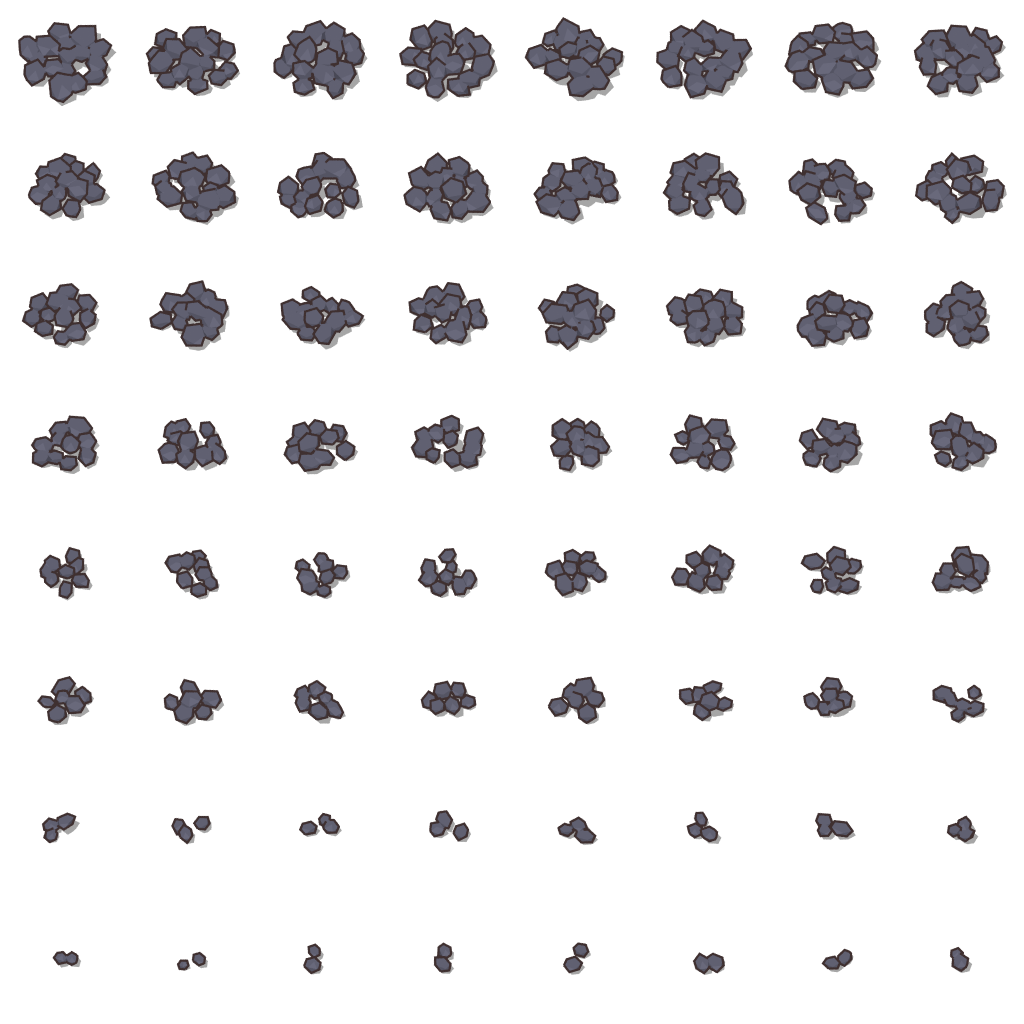
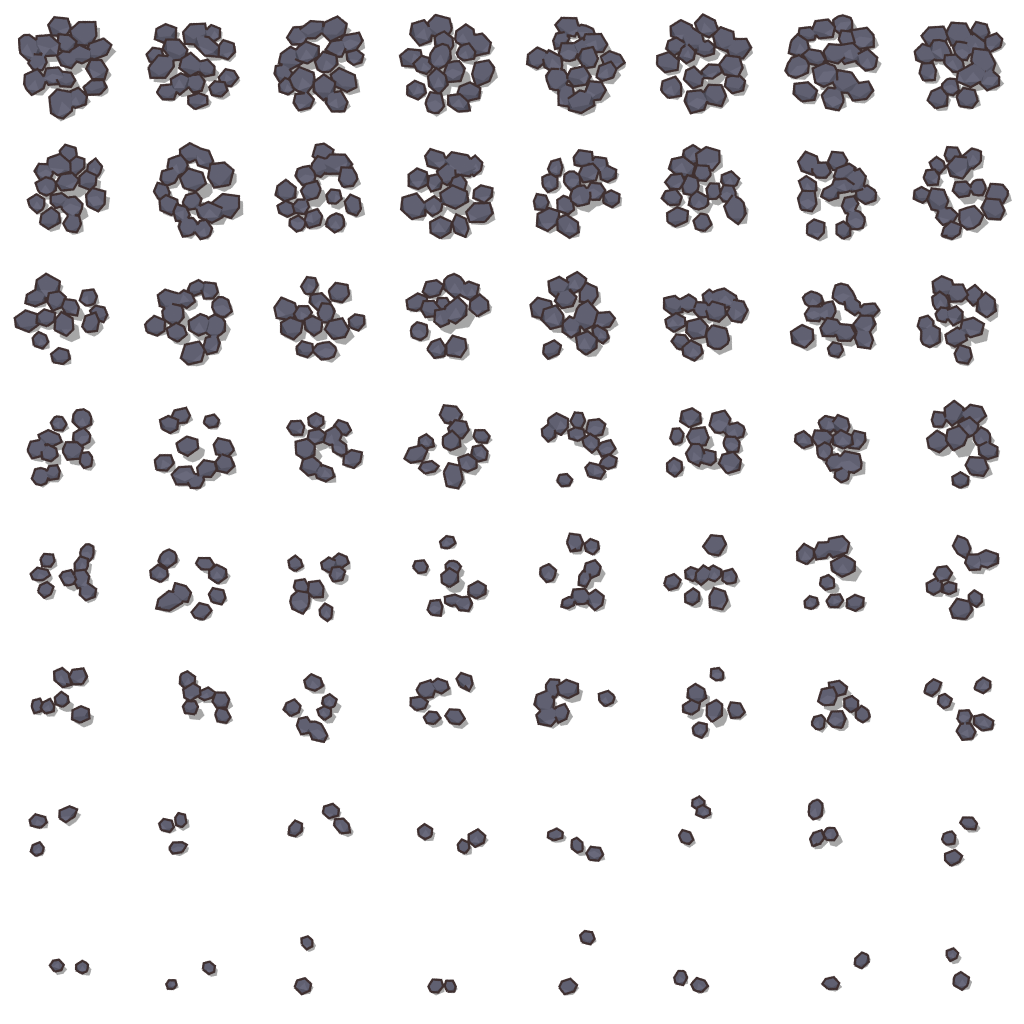
Étape 1 : vues rapprochées et animations au banc d'essai, gisements de minerai continus
- banc : scènes detail-* (bras, souterrains, répartiteurs, assembleurs, minerais, sols) à la résolution du
  jeu, captures animées comparées en GIF ; contrôle de syntaxe Lua 5.2 (lupa) avant lancement, arrêt sur
  erreur du jeu ; lancement sans dialogue Steam (steam_appid.txt)
- minerais : tas plus larges et étirés en profondeur, plus de bandes horizontales dans les gisements

diff --git a/tools/bench.py b/tools/bench.py
@@ -14,6 +14,7 @@ Résultats dans .cache/vitrine/ :
 Le journal du scénario (entités impossibles à créer...) est dans <variante>/journal.txt.
 """
 import json
+import re
 import shutil
 import sys
 import time
@@ -35,18 +36,32 @@ def install_bench():
     return info["name"]
 
 
+def check_lua():
+    """Compile les scripts Lua du banc avec Lua 5.2 (celui de Factorio : pas de `//`, pas de `goto` en 5.1...)."""
+    import lupa.lua52
+    compile_ = lupa.lua52.LuaRuntime().eval("function(src, name) local f, err = load(src, name) return err end")
+    errors = [compile_(p.read_text(encoding="utf-8"), p.name) for p in sorted(BENCH.rglob("*.lua"))]
+    errors = [e for e in errors if e]
+    if errors:
+        raise SystemExit("Erreur de syntaxe Lua :\n" + "\n".join(errors))
+
+
 def capture(variant, mods, timeout):
     """Lance la vitrine avec ces mods ; copie les captures dans OUT/<variant>/."""
     produced = factorio.WORK / "write" / "script-output" / "vitrine" / variant
     shutil.rmtree(produced, ignore_errors=True)
     bench = install_bench()
     factorio.stop()
+    (factorio.WORK / "write" / "factorio-current.log").unlink(missing_ok=True)   # sinon on relirait l'ancien
     print(f"[{variant}] lancement de Factorio...", flush=True)
     factorio.start("--load-scenario", f"{bench}/vitrine", "--disable-audio", "--window-size", "1280x720",
                           mods=[bench, *mods])
     start = time.time()
     try:
         while not (produced / "fini.txt").exists():
+            errors = factorio.log_errors() if time.time() - start > 10 else []
+            if errors:
+                raise RuntimeError("Erreur dans le jeu :\n" + "\n".join(errors))
             if time.time() - start > 30 and not factorio.running():
                 raise RuntimeError("Factorio s'est arrêté avant la fin. Journal :\n" + "\n".join(factorio.log_errors()))
             if time.time() - start > timeout:
@@ -58,35 +73,50 @@ def capture(variant, mods, timeout):
     shutil.rmtree(target, ignore_errors=True)
     shutil.copytree(produced, target)
     shots = sorted(target.glob("*.png"))
-    print(f"[{variant}] {len(shots)} captures en {time.time() - start:.0f} s -> {target.relative_to(ROOT)}")
+    print(f"[{variant}] {len(shots)} images en {time.time() - start:.0f} s -> {target.relative_to(ROOT)}")
     journal = (target / "journal.txt").read_text(encoding="utf-8").strip()
     if journal:
         print(f"[{variant}] journal du scénario : {len(journal.splitlines())} lignes (voir journal.txt)")
     return shots
 
 
+def pair(a, b):
+    """Origine et mod côte à côte (portrait ou carré) ou l'un sous l'autre (paysage), séparés par 8 px."""
+    from PIL import Image
+    side = a.width <= a.height * 1.2
+    size = (a.width + b.width + 8, max(a.height, b.height)) if side else (max(a.width, b.width), a.height + b.height + 8)
+    canvas = Image.new("RGB", size, (20, 20, 20))
+    canvas.paste(a.convert("RGB"), (0, 0))
+    canvas.paste(b.convert("RGB"), (a.width + 8, 0) if side else (0, a.height + 8))
+    return canvas
+
+
 def compare(variant):
+    """Une image par capture fixe, un GIF par capture animée (<nom>-f00.png, -f01.png...)."""
     from PIL import Image
     out = OUT / "comparaison"
     shutil.rmtree(out, ignore_errors=True)
     out.mkdir(parents=True)
+    animations = {}
     for shot in sorted((OUT / variant).glob("*.png")):
         orig = OUT / "origine" / shot.name
         if not orig.exists():
             continue
-        a, b = Image.open(orig), Image.open(shot)
-        side = a.width <= a.height * 1.2                    # portrait ou carré : côte à côte ; sinon empilé
-        size = (a.width + b.width + 8, max(a.height, b.height)) if side else (max(a.width, b.width), a.height + b.height + 8)
-        canvas = Image.new("RGB", size, (20, 20, 20))
-        canvas.paste(a, (0, 0))
-        canvas.paste(b, (a.width + 8, 0) if side else (0, a.height + 8))
-        canvas.save(out / shot.name)
-    print(f"Comparaisons dans {out.relative_to(ROOT)}")
+        m = re.fullmatch(r"(.+)-f(\d+)\.png", shot.name)
+        if m:
+            animations.setdefault(m.group(1), []).append((orig, shot))
+        else:
+            pair(Image.open(orig), Image.open(shot)).save(out / shot.name)
+    for name, frames in animations.items():
+        images = [pair(Image.open(a), Image.open(b)) for a, b in frames]
+        images[0].save(out / f"{name}.gif", save_all=True, append_images=images[1:], duration=100, loop=0)
+    print(f"Comparaisons dans {out.relative_to(ROOT)} ({len(animations)} animations)")
 
 
 def main(argv):
     mod = next((a for a in argv if not a.startswith("-") and (ROOT / a / "mod").is_dir()), "cartoon")
     timeout = int(argv[argv.index("--delai") + 1]) if "--delai" in argv else 600
+    check_lua()
     if "--sans-origine" not in argv or not (OUT / "origine").exists():
         capture("origine", [], timeout)
     name = factorio.install(mod)

diff --git a/cartoon/blender/ore.py b/cartoon/blender/ore.py
@@ -34,6 +34,12 @@ ORES = {                                   # nom : (couleur, couleur du dessus p
 }
 
 # par étape : nombre de blocs, rayon min et max d'un bloc (en cases)
+# gisements : tas larges à toutes les étapes, comme l'original (environ 1,6 x 1,5 case : les tas voisins, posés à une
+# case d'écart, se chevauchent et le gisement paraît continu) ; seul le nombre de blocs diminue avec la richesse
+FIELD_SPREAD = (0.45, 0.011)     # rayon de dispersion des blocs : a + b * nombre de blocs (en cases)
+FIELD_ASPECT = 1.2               # étirement en profondeur : compense le raccourcissement de la vue à 30°
+FIELD_DY = -0.06                 # décalage vers le bas de l'écran (l'original est centré un peu plus bas)
+
 STAGES = [(16, 0.15, 0.23), (14, 0.14, 0.21), (12, 0.14, 0.2), (10, 0.13, 0.19), (8, 0.12, 0.18),
           (6, 0.12, 0.17), (3, 0.11, 0.15), (2, 0.1, 0.14)]
 
@@ -61,7 +67,8 @@ def chunk(x, y, r, m, rng, lift=0.0):
     return o
 
 
-def build_pile(name, count, lo, hi, seed, spread=None):
+def build_pile(name, count, lo, hi, seed, spread=None, aspect=0.85, dy=0.0):
+    """Tas de `count` blocs dispersés dans un disque de rayon `spread`, étiré de `aspect` en profondeur."""
     reset()
     m = mat("ore", P[ORES[name]])
     rng = Rng(seed)
@@ -71,18 +78,20 @@ def build_pile(name, count, lo, hi, seed, spread=None):
     while len(spots) < count and tries < 600:
         tries += 1
         a, d = rng.u(0, math.tau), spread * math.sqrt(rng.u())
-        x, y, r = d * math.cos(a), d * math.sin(a) * 0.85, rng.u(lo, hi)
-        if all(math.hypot(x - sx, (y - sy) * 1.15) > (r + sr) * 0.62 for sx, sy, sr in spots):
+        x, y, r = d * math.cos(a), d * math.sin(a) * aspect, rng.u(lo, hi)
+        if all(math.hypot(x - sx, (y - sy) * 1.15 * 0.85 / aspect) > (r + sr) * 0.62 for sx, sy, sr in spots):
             spots.append((x, y, r))
     for x, y, r in sorted(spots, key=lambda s: -s[1]):          # de l'arrière vers l'avant
         lift = max(0.0, 1.0 - math.hypot(x, y) / spread) * r * 1.1      # le centre du tas est plus haut
-        chunk(x, y, r, m, rng, lift)
+        chunk(x, y + dy, r, m, rng, lift)
 
 
 def render_cell(name, stage, variation, out):
     count, lo, hi = STAGES[stage]
     seed = stage * 8 + variation + 100 * list(ORES).index(name)
-    return render_with_shadow(lambda: build_pile(name, count, lo, hi, seed), os.path.join(out, "_ore.png"), CELL,
+    spread = FIELD_SPREAD[0] + FIELD_SPREAD[1] * count
+    return render_with_shadow(lambda: build_pile(name, count, lo, hi, seed, spread, FIELD_ASPECT, FIELD_DY),
+                              os.path.join(out, "_ore.png"), CELL,
                               CELL / PX_PER_TILE, SHADOW, OUTLINE)[1]
 
 

diff --git a/tools/factorio.py b/tools/factorio.py
@@ -56,15 +56,27 @@ def run(*args, mods=(), timeout=600):
     return subprocess.run(cmd, capture_output=True, text=True, timeout=timeout, cwd="/tmp")
 
 
+def no_steam_relaunch():
+    """Lancé hors de Steam, le jeu se fait relancer par Steam, qui demande de confirmer les arguments (dialogue
+    « Lancer le jeu avec des arguments personnalisés »). Un steam_appid.txt à côté de l'exécutable l'évite : le jeu
+    démarre directement (Steam doit être ouvert). Sans effet sur un lancement normal depuis Steam ; une vérification
+    des fichiers du jeu par Steam peut le supprimer, on le recrée donc à chaque lancement."""
+    appid = EXE.parent / "steam_appid.txt"
+    if not appid.exists():
+        appid.write_text("427520", encoding="ascii")
+
+
 def start(*args, mods=()):
     """Lance factorio.exe (avec fenêtre) dans l'instance isolée, sans attendre ; voir stop()."""
+    no_steam_relaunch()
     prepare(mods)
     cmd = [str(EXE), "--config", winpath(WORK / "config.ini"), "--mod-directory", winpath(WORK / "mods"), *args]
     return subprocess.Popen(cmd, stdout=subprocess.DEVNULL, stderr=subprocess.DEVNULL, cwd="/tmp")
 
 
 def running():
-    """Vrai si une instance isolée tourne (Steam relance le jeu : le processus lancé par start() ne la suit pas)."""
+    """Vrai si une instance isolée tourne (sans steam_appid.txt, Steam relance le jeu et le processus lancé par
+    start() ne la suit pas : on cherche donc l'instance par sa ligne de commande)."""
     marker = winpath(WORK / "config.ini").replace("'", "''")
     script = ("@(Get-CimInstance Win32_Process -Filter \"Name='factorio.exe'\" | "
               f"Where-Object {{ $_.CommandLine -like '*{marker}*' }}).Count")

diff --git a/docs/cartoon/plan.md b/docs/cartoon/plan.md
@@ -90,15 +90,18 @@ Objectif : rendre la production rapide, vérifiable et reproductible. **C'est l'
 
 ## 4. Étape 1 : valider l'existant en jeu
 
-Avec le banc d'essai, vérifier ce qui n'a jamais été vu à l'écran et corriger :
+Avec le banc d'essai (vues rapprochées « detail-* » à la résolution du jeu, machines en marche, et captures animées
+« anim-* » en GIF), vérifier ce qui n'a jamais été vu à l'écran et corriger :
 
-- [ ] Bras robotisés (ordre des 4 orientations de plateforme, longue portée)
-- [ ] Souterrains (capot, pièces « patch » laissées vides)
-- [ ] Animation des répartiteurs
-- [ ] Assembleurs 1 à 3 (animation, ombres)
-- [ ] Minerais (lisibilité des 8 étapes, contraste sur chaque sol)
-- [ ] Sols (transitions encore en fondu doux : décider si on refait les masques)
-- [ ] Revue de cohérence générale : une capture de base de début de partie, jugée d'un coup d'œil.
+- [x] Bras robotisés : orientations des plateformes, positions des pinces et mouvement identiques à l'original (5 bras, 4 directions)
+- [x] Souterrains : capot du bon côté pour l'entrée et la sortie dans les 4 directions, objets cachés dessous
+- [x] Animation des répartiteurs : animés dans les 4 directions et les 4 niveaux
+- [x] Assembleurs 1 à 3 : animés en marche, ombres en place
+- [x] Minerais : **corrigé**, les gisements formaient des bandes horizontales (tas trop plats et trop petits aux étapes
+      moyennes, voir `FIELD_*` dans `ore.py`) ; ils sont maintenant continus comme l'original
+- [ ] Répartiteurs : la tête cartoon (barre fine) pèse beaucoup moins que l'original (bloc épais) ; **à trancher**
+- [ ] Sols : transitions encore en fondu doux (masques d'origine) ; **à trancher** : garder ou refaire des masques nets
+- [ ] Revue de cohérence générale par Bastien : comparaisons dans `.cache/vitrine/comparaison/`
 
 ---
 
